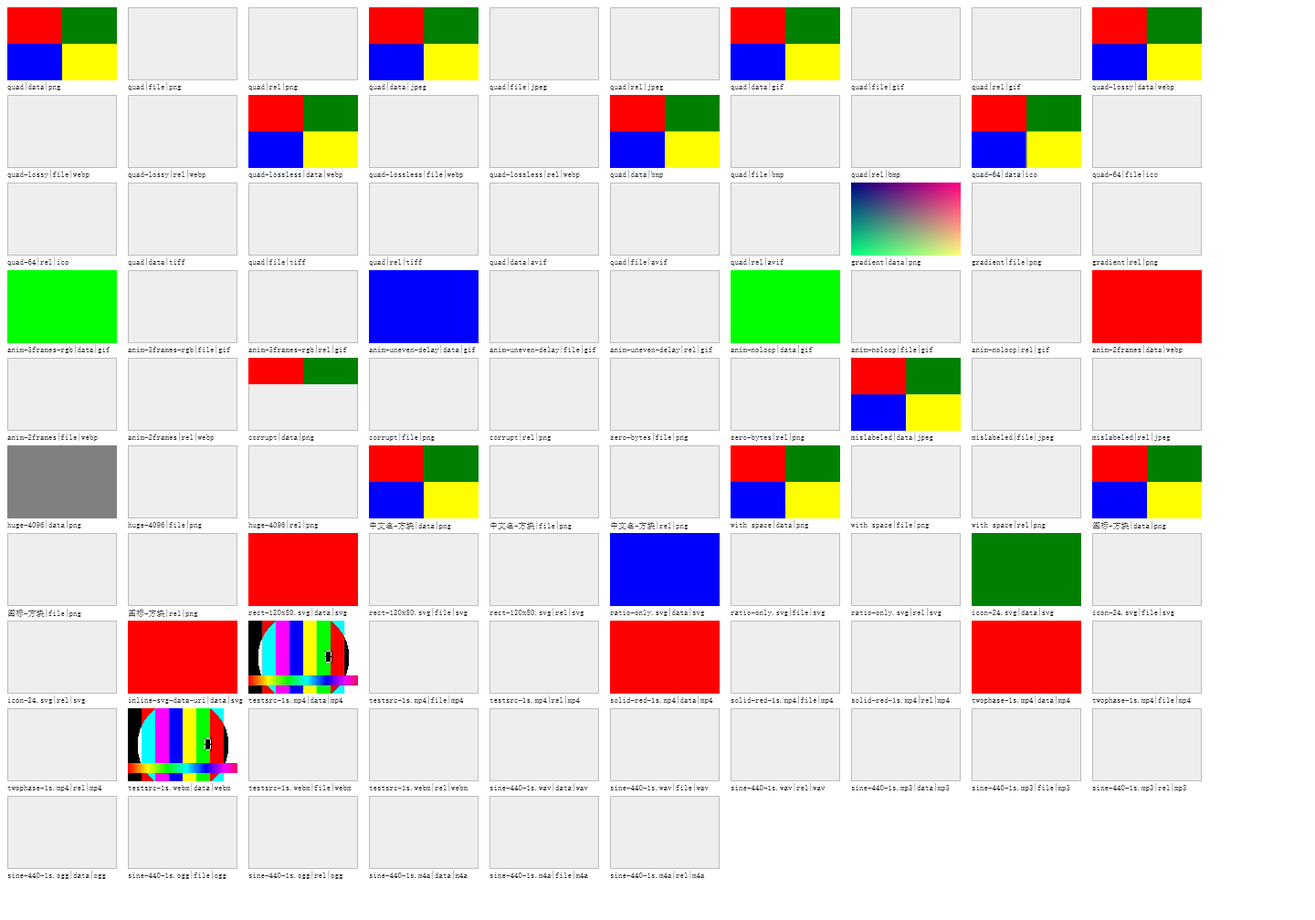
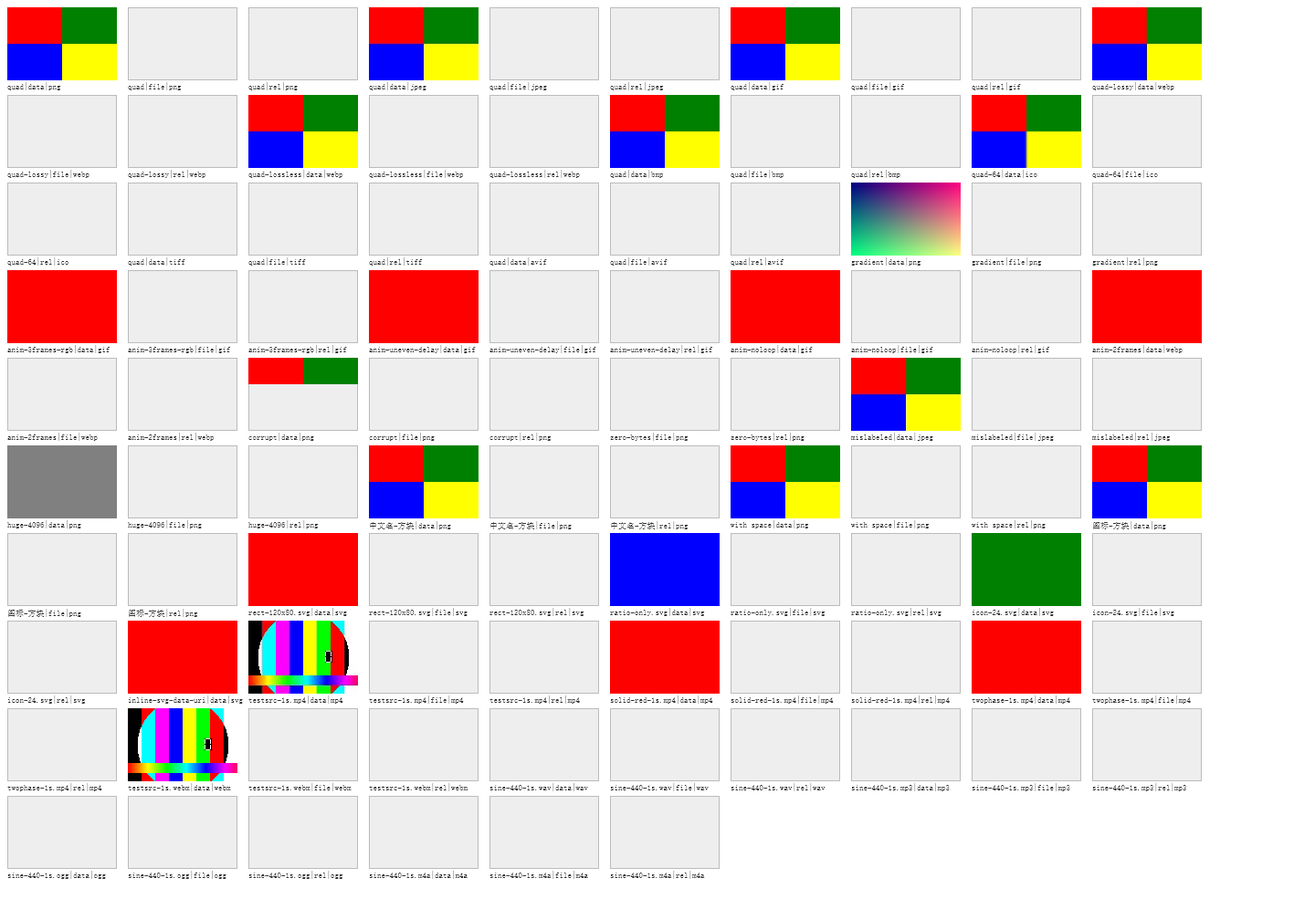
Q7-D：截图相位锁定 —— matrix-*.png 跨跑逐像素收敛（动画格遗留项的最后一环）
## 问题（第 9 处测量伪影，Q7-C 落地后暴露）
`matrix-*.png` 的动画样本格每次截到不同帧：实测 `matrix-Browser.png` 与
`matrix-Toolkit-DenyExternal.png` 各 1.98%、两张播放态各 5.95% 像素变化，最大通道差 255
（`cmp` 逐字节对比全部不 SAME）。差异格 100% 落在动画格，**非解码缺陷**。

根因与第 8 处**同源但不同环节**：动图显示哪一帧 = 「登记时刻 → 绘制时刻」的真实流逝
（`frameAt` 按 `now - started` 取模选帧），这段时长含加载、事件派发、主循环调度的全部抖动；
它**不经过**连拍采样环节，所以 Q7-C（连拍步长）改不动它——这正是此前判为遗留的依据。

## 修法
1. `engine/rendering/imageanimation.go`：新增**取证相位锁定** `SetAnimatedImagePhase(ms)` /
   `ClearAnimatedImagePhase()`——置位后 `frameAt` 忽略真实经过时间、改用固定相位。
   ★ 与既有 `SetAnimatedImageClock` 的区别（关键）：时钟替换会**清空帧缓存**，已登记的动图
   会被当成未登记、绘制回退到单帧快照；相位锁定**不动缓存、不动登记**，只把「该显示第几帧」
   的输入固定下来，解除后动画按原时钟继续。默认未置位 ⇒ 行为与改动前逐字节相同。
2. `app/imageanimation.go`：`PinAnimatedImagePhase` / `UnpinAnimatedImagePhase`（宿主层包装）。
3. `cmd/psai/mediaprobe.go`：**每一次截图绘制**期间把相位钉在 0（各动图首帧），截完立即解除
   （静止态与播放态两处）。

## ★ 不掩盖缺陷（口径说明）
「动图是否真在推进」由连拍判据（L4，`framesDiffer`）负责，它走**真实相位**，不受本锁定影响；
本锁定只决定「取证那一帧取哪一帧」。二者分工已在文档 §6.2 / §9.9 写明。

## 验收（连续 3 次全量跑）
- 8 张 `matrix-*.png` **逐字节相同**（`cmp` 全部 SAME；run1↔run2、run1↔run3 两两比对）；
- 3 次均「与基线一致（无等级下降）」，384 条等级零变化；
- 附带效果：TC-M-905 的 Browser ↔ Toolkit+AllowAll **全图差异同时归零**（此前那 3.9683%
  全部来自动画格相位差）——静止态三配置 md5 同为 `662955ee…`、播放态同为 `b709da84…`；
- 定向单测：`go test ./engine/rendering/ ./app/` 全 ok；`go build ./...`、`go vet` 通过。

## 文档
- §6.2 副作用②：由「未收敛、属遗留项」改写为「**已收敛（Q7-D）**」+ 根因与处置；
- §9.9 新增行「截图相位（第 9 处）——已根本处置」；
- §10 的 Q7 行补 ③；表头说明把 Q7-C 从「本轮未动」移出并指向 Q7-D。

## 产物
`dev/media/out/` 四配置静止/播放截图 + 逐格几何 + `report.md`（同源：第 3 次跑）。

Changed region(s): [[0.5312, 0.2768, 0.6562, 0.3998], [0.0, 0.2768, 0.0938, 0.3998], [0.2812, 0.2768, 0.375, 0.3998]]

diff --git a/engine/rendering/imageanimation.go b/engine/rendering/imageanimation.go
@@ -42,6 +42,10 @@ var animatedImages = struct {
 	src   AnimatedImageSource
 	clock func() time.Duration
 	cache map[string]*animatedEntry
+	// 取证相位锁定（见 SetAnimatedImagePhase）：置位后取帧不再看「经过时间」，
+	// 一律用固定相位，使截图可复现。默认未置位 ⇒ 行为与锁定前逐字节相同。
+	phaseSet bool
+	phaseMS  int
 }{
 	cache: map[string]*animatedEntry{},
 	// 时钟默认取进程单调时钟：动图推进不能受系统时间调整影响。
@@ -67,6 +71,31 @@ func SetAnimatedImageClock(fn func() time.Duration) {
 	animatedImages.cache = map[string]*animatedEntry{}
 	animatedImages.mu.Unlock()
 }
+
+// SetAnimatedImagePhase 把动图取帧的「经过时间」钉成 phaseMS 毫秒——与真实时刻、
+// 也与各动图自己的登记时刻无关。**取证用**（媒体验证计划 §6.3）：截图要能逐像素
+// 复核，而动画帧相位由「加载到截图之间真实流逝了多久」决定 ⇒ 同一 HEAD 重跑截到
+// 不同帧，截图无法比对。
+//
+// 与 SetAnimatedImageClock 的区别（重要）：时钟替换会**清空帧缓存**（见上），已登记
+// 的动图会被当成未登记，绘制回退到缓存的单帧快照；相位锁定**不动缓存、不动登记**，
+// 只把「该显示第几帧」的输入固定下来，解除后动画按原时钟继续（相位跳变一次，
+// 对「等间隔连拍」判据无影响——它只要求任意两帧不同）。
+//
+// phaseMS < 0 等价于 ClearAnimatedImagePhase。
+func SetAnimatedImagePhase(phaseMS int) {
+	animatedImages.mu.Lock()
+	if phaseMS < 0 {
+		animatedImages.phaseSet = false
+	} else {
+		animatedImages.phaseSet = true
+		animatedImages.phaseMS = phaseMS
+	}
+	animatedImages.mu.Unlock()
+}
+
+// ClearAnimatedImagePhase 解除相位锁定，恢复按真实经过时间选帧。
+func ClearAnimatedImagePhase() { SetAnimatedImagePhase(-1) }
 
 // HasAnimatedImages 报告当前是否有动图在播放（宿主据此决定「没有别的脏源也要重绘」）。
 func HasAnimatedImages() bool {
@@ -128,11 +157,16 @@ func animatedFrameForData(url string, data []byte) (*DecodedImage, bool) {
 }
 
 // frameAt 返回 now 时刻应显示的帧。loops == 0（只播一次）时停在末帧；否则按总时长取模。
+//
+// ★ 调用者必须持有 animatedImages.mu（本函数读相位锁定字段）。
 func (e *animatedEntry) frameAt(now time.Duration) *DecodedImage {
 	if e == nil || len(e.frames) == 0 {
 		return nil
 	}
 	elapsed := int((now - e.started).Milliseconds())
+	if animatedImages.phaseSet { // 取证相位锁定：忽略真实经过时间
+		elapsed = animatedImages.phaseMS
+	}
 	if elapsed < 0 {
 		elapsed = 0
 	}

diff --git a/cmd/psai/mediaprobe.go b/cmd/psai/mediaprobe.go
@@ -599,7 +599,17 @@ func runMediaConfig(cfg mediaConfig, man *manifestDoc, cells []cell, matrixPath,
 	if err != nil {
 		return res, err
 	}
+	// ★ Q7-D 截图相位锁定（2026-10-07）：动图显示哪一帧 = 「登记时刻到绘制时刻之间
+	//   真实流逝了多久」，那段时长包含加载、事件派发、主循环调度的全部抖动 ⇒ 同一
+	//   HEAD 重跑会截到**不同帧**（实测 matrix-*.png 差异 1.98%~5.95%，逐格定位后
+	//   差异像素 100% 落在动画样本格上）。截图要当验收证据（§6.3 供 read_image 复核、
+	//   供跨跑比对），就必须逐像素可复现。
+	//   处置：仅在**这一次截图绘制**期间把相位钉在 0（各动图首帧），截完立即解除。
+	//   ★ 这不会掩盖缺陷：「动图是否真的在推进」由连拍判据（L4，见 ③）负责，它用的
+	//     是**真实相位**，不受本锁定影响；本锁定只决定「取证那一帧取哪一帧」。
+	app.PinAnimatedImagePhase(0)
 	stillPixels, err := renderPixels(wv)
+	app.UnpinAnimatedImagePhase()
 	if err != nil {
 		return res, err
 	}
@@ -642,7 +652,10 @@ func runMediaConfig(cfg mediaConfig, man *manifestDoc, cells []cell, matrixPath,
 	if err != nil {
 		return res, err
 	}
+	// ★ 播放态截图同样钉相位（理由同 ①）：播放态与静止态各自的动画相位都不可复现。
+	app.PinAnimatedImagePhase(0)
 	playPixels, err := renderPixels(wv)
+	app.UnpinAnimatedImagePhase()
 	if err != nil {
 		return res, err
 	}

diff --git a/app/imageanimation.go b/app/imageanimation.go
@@ -47,3 +47,10 @@ func InstallAnimatedImageSource() func() {
 	})
 	return func() { rendering.SetAnimatedImageSource(nil) }
 }
+
+// PinAnimatedImagePhase 把动图取帧相位钉在 phaseMS 毫秒（取证用：让截图可复现），
+// 见 rendering.SetAnimatedImagePhase 的推导。默认不调用 = 动画按真实时间推进。
+func PinAnimatedImagePhase(phaseMS int) { rendering.SetAnimatedImagePhase(phaseMS) }
+
+// UnpinAnimatedImagePhase 解除动图取帧相位锁定，恢复按真实经过时间选帧。
+func UnpinAnimatedImagePhase() { rendering.ClearAnimatedImagePhase() }

diff --git a/dev/media/out/report.md b/dev/media/out/report.md
@@ -1,8 +1,8 @@
-# 媒体格式真实可用性报告（2026-10-07 22:10 9e1116d）
+# 媒体格式真实可用性报告（2026-10-08 01:20 bc9d8b9）
 
 ## 环境
 
-配置：Browser / Toolkit+DenyExternal / Toolkit+AllowHostResolved / Toolkit+AllowAll ｜ 引擎：9e1116d ｜ 样本：本地脚本生成、不入库（决策 5）｜ 模型：L0–L4（文档 §2）
+配置：Browser / Toolkit+DenyExternal / Toolkit+AllowHostResolved / Toolkit+AllowAll ｜ 引擎：bc9d8b9 ｜ 样本：本地脚本生成、不入库（决策 5）｜ 模型：L0–L4（文档 §2）
 
 复现：`python dev/media/gen_samples.py` → `cmd/psai -media`（本机按需，不入 CI 门禁——决策 6）
 
@@ -257,14 +257,14 @@
 | Toolkit+DenyExternal | svg | rect-120x80.svg | rel | ❌ | ❌ | ❌ | ❌ | — | **L0** | 资源策略 deny-external 拒绝该引用（预期，非缺陷） |
 | Toolkit+AllowHostResolved | svg | rect-120x80.svg | rel | ✅ | ✅ | ✅ | ✅ | — | **L3** |  |
 | Toolkit+AllowAll | svg | rect-120x80.svg | rel | ✅ | ✅ | ✅ | ✅ | — | **L3** |  |
-| Browser | m4a | sine-440-1s.m4a | data | ✅ | ✅ | — | ✅ | — | **L4** | 音频输出：交付 49041 帧、PCM 主峰 439.88Hz（期望 440Hz，判据 A）；play() 后 500ms currentTime=0.42s、结束时 1.00s（TC-M-602） |
+| Browser | m4a | sine-440-1s.m4a | data | ✅ | ✅ | — | ✅ | — | **L4** | 音频输出：交付 49041 帧、PCM 主峰 439.88Hz（期望 440Hz，判据 A）；play() 后 500ms currentTime=0.47s、结束时 1.00s（TC-M-602） |
 | Toolkit+DenyExternal | m4a | sine-440-1s.m4a | data | ✅ | ✅ | — | ✅ | — | **L4** | 音频输出：交付 49041 帧、PCM 主峰 439.88Hz（期望 440Hz，判据 A）；play() 后 500ms currentTime=1.00s、结束时 1.00s（TC-M-602） |
-| Toolkit+AllowHostResolved | m4a | sine-440-1s.m4a | data | ✅ | ✅ | — | ✅ | — | **L4** | 音频输出：交付 49041 帧、PCM 主峰 439.88Hz（期望 440Hz，判据 A）；play() 后 500ms currentTime=0.42s、结束时 1.00s（TC-M-602） |
-| Toolkit+AllowAll | m4a | sine-440-1s.m4a | data | ✅ | ✅ | — | ✅ | — | **L4** | 音频输出：交付 49041 帧、PCM 主峰 439.88Hz（期望 440Hz，判据 A）；play() 后 500ms currentTime=0.41s、结束时 1.00s（TC-M-602） |
-| Browser | m4a | sine-440-1s.m4a | file | ✅ | ✅ | — | ✅ | — | **L4** | 音频输出：交付 49041 帧、PCM 主峰 439.88Hz（期望 440Hz，判据 A）；play() 后 500ms currentTime=0.23s、结束时 1.00s（TC-M-602） |
+| Toolkit+AllowHostResolved | m4a | sine-440-1s.m4a | data | ✅ | ✅ | — | ✅ | — | **L4** | 音频输出：交付 49041 帧、PCM 主峰 439.88Hz（期望 440Hz，判据 A）；play() 后 500ms currentTime=0.65s、结束时 1.00s（TC-M-602） |
+| Toolkit+AllowAll | m4a | sine-440-1s.m4a | data | ✅ | ✅ | — | ✅ | — | **L4** | 音频输出：交付 49041 帧、PCM 主峰 439.88Hz（期望 440Hz，判据 A）；play() 后 500ms currentTime=0.53s、结束时 1.00s（TC-M-602） |
+| Browser | m4a | sine-440-1s.m4a | file | ✅ | ✅ | — | ✅ | — | **L4** | 音频输出：交付 49041 帧、PCM 主峰 439.88Hz（期望 440Hz，判据 A）；play() 后 500ms currentTime=0.29s、结束时 1.00s（TC-M-602） |
 | Toolkit+DenyExternal | m4a | sine-440-1s.m4a | file | ❌ | ❌ | — | ❌ | — | **L0** | 资源策略 deny-external 拒绝该引用（预期，非缺陷）；实测元素 error.code=4（MEDIA_ERR_SRC_NOT_SUPPORTED） |
-| Toolkit+AllowHostResolved | m4a | sine-440-1s.m4a | file | ✅ | ✅ | — | ✅ | — | **L4** | 音频输出：交付 49041 帧、PCM 主峰 439.88Hz（期望 440Hz，判据 A）；play() 后 500ms currentTime=0.29s、结束时 1.00s（TC-M-602） |
-| Toolkit+AllowAll | m4a | sine-440-1s.m4a | file | ✅ | ✅ | — | ✅ | — | **L4** | 音频输出：交付 49041 帧、PCM 主峰 439.88Hz（期望 440Hz，判据 A）；play() 后 500ms currentTime=0.28s、结束时 1.00s（TC-M-602） |
+| Toolkit+AllowHostResolved | m4a | sine-440-1s.m4a | file | ✅ | ✅ | — | ✅ | — | **L4** | 音频输出：交付 49041 帧、PCM 主峰 439.88Hz（期望 440Hz，判据 A）；play() 后 500ms currentTime=0.32s、结束时 1.00s（TC-M-602） |
+| Toolkit+AllowAll | m4a | sine-440-1s.m4a | file | ✅ | ✅ | — | ✅ | — | **L4** | 音频输出：交付 49041 帧、PCM 主峰 439.88Hz（期望 440Hz，判据 A）；play() 后 500ms currentTime=0.33s、结束时 1.00s（TC-M-602） |
 | Browser | m4a | sine-440-1s.m4a | rel | ✅ | ✅ | — | ✅ | — | **L4** | 音频输出：交付 49041 帧、PCM 主峰 439.88Hz（期望 440Hz，判据 A）；play() 后 500ms currentTime=0.00s、结束时 1.00s（TC-M-602） |
 | Toolkit+DenyExternal | m4a | sine-440-1s.m4a | rel | ❌ | ❌ | — | ❌ | — | **L0** | 资源策略 deny-external 拒绝该引用（预期，非缺陷）；实测元素 error.code=4（MEDIA_ERR_SRC_NOT_SUPPORTED） |
 | Toolkit+AllowHostResolved | m4a | sine-440-1s.m4a | rel | ✅ | ✅ | — | ✅ | — | **L4** | 音频输出：交付 49041 帧、PCM 主峰 439.88Hz（期望 440Hz，判据 A）；play() 后 500ms currentTime=0.00s、结束时 1.00s（TC-M-602） |
@@ -281,18 +281,18 @@
 | Toolkit+DenyExternal | mp3 | sine-440-1s.mp3 | rel | ❌ | ❌ | — | ❌ | — | **L0** | 资源策略 deny-external 拒绝该引用（预期，非缺陷）；实测元素 error.code=4（MEDIA_ERR_SRC_NOT_SUPPORTED） |
 | Toolkit+AllowHostResolved | mp3 | sine-440-1s.mp3 | rel | ✅ | ✅ | — | ✅ | — | **L4** | 音频输出：交付 48000 帧、PCM 主峰 439.88Hz（期望 440Hz，判据 A）；play() 后 500ms currentTime=1.00s、结束时 1.00s（TC-M-602） |
 | Toolkit+AllowAll | mp3 | sine-440-1s.mp3 | rel | ✅ | ✅ | — | ✅ | — | **L4** | 音频输出：交付 48000 帧、PCM 主峰 439.88Hz（期望 440Hz，判据 A）；play() 后 500ms currentTime=1.00s、结束时 1.00s（TC-M-602） |
-| Browser | ogg | sine-440-1s.ogg | data | ✅ | ✅ | — | ✅ | — | **L4** | 音频输出：交付 47861 帧、PCM 主峰 439.87Hz（期望 440Hz，判据 A）；play() 后 500ms currentTime=0.86s、结束时 1.00s（TC-M-602） |
+| Browser | ogg | sine-440-1s.ogg | data | ✅ | ✅ | — | ✅ | — | **L4** | 音频输出：交付 47861 帧、PCM 主峰 439.87Hz（期望 440Hz，判据 A）；play() 后 500ms currentTime=1.00s、结束时 1.00s（TC-M-602） |
 | Toolkit+DenyExternal | ogg | sine-440-1s.ogg | data | ✅ | ✅ | — | ✅ | — | **L4** | 音频输出：交付 47861 帧、PCM 主峰 439.87Hz（期望 440Hz，判据 A）；play() 后 500ms currentTime=1.00s、结束时 1.00s（TC-M-602） |
-| Toolkit+AllowHostResolved | ogg | sine-440-1s.ogg | data | ✅ | ✅ | — | ✅ | — | **L4** | 音频输出：交付 47861 帧、PCM 主峰 439.87Hz（期望 440Hz，判据 A）；play() 后 500ms currentTime=0.88s、结束时 1.00s（TC-M-602） |
-| Toolkit+AllowAll | ogg | sine-440-1s.ogg | data | ✅ | ✅ | — | ✅ | — | **L4** | 音频输出：交付 47861 帧、PCM 主峰 439.87Hz（期望 440Hz，判据 A）；play() 后 500ms currentTime=0.97s、结束时 1.00s（TC-M-602） |
-| Browser | ogg | sine-440-1s.ogg | file | ✅ | ✅ | — | ✅ | — | **L4** | 音频输出：交付 47861 帧、PCM 主峰 439.87Hz（期望 440Hz，判据 A）；play() 后 500ms currentTime=0.73s、结束时 1.00s（TC-M-602） |
+| Toolkit+AllowHostResolved | ogg | sine-440-1s.ogg | data | ✅ | ✅ | — | ✅ | — | **L4** | 音频输出：交付 47861 帧、PCM 主峰 439.87Hz（期望 440Hz，判据 A）；play() 后 500ms currentTime=1.00s、结束时 1.00s（TC-M-602） |
+| Toolkit+AllowAll | ogg | sine-440-1s.ogg | data | ✅ | ✅ | — | ✅ | — | **L4** | 音频输出：交付 47861 帧、PCM 主峰 439.87Hz（期望 440Hz，判据 A）；play() 后 500ms currentTime=1.00s、结束时 1.00s（TC-M-602） |
+| Browser | ogg | sine-440-1s.ogg | file | ✅ | ✅ | — | ✅ | — | **L4** | 音频输出：交付 47861 帧、PCM 主峰 439.87Hz（期望 440Hz，判据 A）；play() 后 500ms currentTime=0.84s、结束时 1.00s（TC-M-602） |
 | Toolkit+DenyExternal | ogg | sine-440-1s.ogg | file | ❌ | ❌ | — | ❌ | — | **L0** | 资源策略 deny-external 拒绝该引用（预期，非缺陷）；实测元素 error.code=4（MEDIA_ERR_SRC_NOT_SUPPORTED） |
-| Toolkit+AllowHostResolved | ogg | sine-440-1s.ogg | file | ✅ | ✅ | — | ✅ | — | **L4** | 音频输出：交付 47861 帧、PCM 主峰 439.87Hz（期望 440Hz，判据 A）；play() 后 500ms currentTime=0.72s、结束时 1.00s（TC-M-602） |
-| Toolkit+AllowAll | ogg | sine-440-1s.ogg | file | ✅ | ✅ | — | ✅ | — | **L4** | 音频输出：交付 47861 帧、PCM 主峰 439.87Hz（期望 440Hz，判据 A）；play() 后 500ms currentTime=0.79s、结束时 1.00s（TC-M-602） |
-| Browser | ogg | sine-440-1s.ogg | rel | ✅ | ✅ | — | ✅ | — | **L4** | 音频输出：交付 47861 帧、PCM 主峰 439.87Hz（期望 440Hz，判据 A）；play() 后 500ms currentTime=0.59s、结束时 1.00s（TC-M-602） |
+| Toolkit+AllowHostResolved | ogg | sine-440-1s.ogg | file | ✅ | ✅ | — | ✅ | — | **L4** | 音频输出：交付 47861 帧、PCM 主峰 439.87Hz（期望 440Hz，判据 A）；play() 后 500ms currentTime=1.00s、结束时 1.00s（TC-M-602） |
+| Toolkit+AllowAll | ogg | sine-440-1s.ogg | file | ✅ | ✅ | — | ✅ | — | **L4** | 音频输出：交付 47861 帧、PCM 主峰 439.87Hz（期望 440Hz，判据 A）；play() 后 500ms currentTime=1.00s、结束时 1.00s（TC-M-602） |
+| Browser | ogg | sine-440-1s.ogg | rel | ✅ | ✅ | — | ✅ | — | **L4** | 音频输出：交付 47861 帧、PCM 主峰 439.87Hz（期望 440Hz，判据 A）；play() 后 500ms currentTime=0.65s、结束时 1.00s（TC-M-602） |
 | Toolkit+DenyExternal | ogg | sine-440-1s.ogg | rel | ❌ | ❌ | — | ❌ | — | **L0** | 资源策略 deny-external 拒绝该引用（预期，非缺陷）；实测元素 error.code=4（MEDIA_ERR_SRC_NOT_SUPPORTED） |
-| Toolkit+AllowHostResolved | ogg | sine-440-1s.ogg | rel | ✅ | ✅ | — | ✅ | — | **L4** | 音频输出：交付 47861 帧、PCM 主峰 439.87Hz（期望 440Hz，判据 A）；play() 后 500ms currentTime=0.57s、结束时 1.00s（TC-M-602） |
-| Toolkit+AllowAll | ogg | sine-440-1s.ogg | rel | ✅ | ✅ | — | ✅ | — | **L4** | 音频输出：交付 47861 帧、PCM 主峰 439.87Hz（期望 440Hz，判据 A）；play() 后 500ms currentTime=0.59s、结束时 1.00s（TC-M-602） |
+| Toolkit+AllowHostResolved | ogg | sine-440-1s.ogg | rel | ✅ | ✅ | — | ✅ | — | **L4** | 音频输出：交付 47861 帧、PCM 主峰 439.87Hz（期望 440Hz，判据 A）；play() 后 500ms currentTime=0.86s、结束时 1.00s（TC-M-602） |
+| Toolkit+AllowAll | ogg | sine-440-1s.ogg | rel | ✅ | ✅ | — | ✅ | — | **L4** | 音频输出：交付 47861 帧、PCM 主峰 439.87Hz（期望 440Hz，判据 A）；play() 后 500ms currentTime=0.79s、结束时 1.00s（TC-M-602） |
 | Browser | wav | sine-440-1s.wav | data | ✅ | ✅ | — | ✅ | — | **L4** | 音频输出：交付 48000 帧、PCM 主峰 439.88Hz（期望 440Hz，判据 A）；play() 后 500ms currentTime=1.00s、结束时 1.00s（TC-M-602） |
 | Toolkit+DenyExternal | wav | sine-440-1s.wav | data | ✅ | ✅ | — | ✅ | — | **L4** | 音频输出：交付 48000 帧、PCM 主峰 439.88Hz（期望 440Hz，判据 A）；play() 后 500ms currentTime=1.00s、结束时 1.00s（TC-M-602） |
 | Toolkit+AllowHostResolved | wav | sine-440-1s.wav | data | ✅ | ✅ | — | ✅ | — | **L4** | 音频输出：交付 48000 帧、PCM 主峰 439.88Hz（期望 440Hz，判据 A）；play() 后 500ms currentTime=1.00s、结束时 1.00s（TC-M-602） |
@@ -479,12 +479,8 @@
 
 ## 策略一致性（决策 1 · TC-M-905）
 
-- 全图差异像素比例：**3.9683%**（其中 12 个动画样本格未计入下方判定）
+- 全图差异像素比例：**0.0000%**（其中 12 个动画样本格未计入下方判定）
 - 排除动画样本格后：**0.0000%** —— ✅ 非动画区域逐像素一致
-
-> **归因**：全图差异 **100% 落在动画样本格内**（`anim-noloop.gif`、`anim-2frames.webp` 等）——
-> 两个配置各是一次独立加载与截图，动画停在不同帧（**帧相位差**，与策略开关无关）；
-> 非动画区域（静态图 / SVG / 视频 / 音频格）**零差异**。详见 `media-format-verification-plan.md` §9.7。
 
 ## 音频（A3-1：宿主 ffmpeg 解码 → 引擎 PCM 通道 → 输出后端）
 
@@ -567,11 +563,11 @@
 | Browser | sine-440-1s.mp3 | data | 1.00 | 1.00 | 1.00 | 1.00 | ✅ |
 | Browser | sine-440-1s.mp3 | file | 1.00 | 1.00 | 1.00 | 1.00 | ✅ |
 | Browser | sine-440-1s.mp3 | rel | 1.00 | 1.00 | 1.00 | 1.00 | ✅ |
-| Browser | sine-440-1s.ogg | data | 0.91 | 0.86 | 0.91 | 1.00 | ✅ |
-| Browser | sine-440-1s.ogg | file | 0.78 | 0.73 | 0.78 | 1.00 | ✅ |
-| Browser | sine-440-1s.ogg | rel | 0.63 | 0.59 | 0.63 | 1.00 | ✅ |
-| Browser | sine-440-1s.m4a | data | 0.45 | 0.42 | 0.45 | 1.00 | ✅ |
-| Browser | sine-440-1s.m4a | file | 0.29 | 0.23 | 0.29 | 1.00 | ✅ |
+| Browser | sine-440-1s.ogg | data | 1.00 | 1.00 | 1.00 | 1.00 | ✅ |
+| Browser | sine-440-1s.ogg | file | 0.90 | 0.84 | 0.90 | 1.00 | ✅ |
+| Browser | sine-440-1s.ogg | rel | 0.71 | 0.65 | 0.71 | 1.00 | ✅ |
+| Browser | sine-440-1s.m4a | data | 0.52 | 0.47 | 0.52 | 1.00 | ✅ |
+| Browser | sine-440-1s.m4a | file | 0.35 | 0.29 | 0.35 | 1.00 | ✅ |
 | Browser | sine-440-1s.m4a | rel | 0.15 | 0.00 | 0.15 | 1.00 | ✅ |
 | Toolkit+DenyExternal | sine-440-1s.wav | data | 1.00 | 1.00 | 1.00 | 1.00 | ✅ |
 | Toolkit+DenyExternal | sine-440-1s.wav | file | 0.00 | 0.00 | 0.00 | 0.00 | — |
@@ -591,24 +587,24 @@
 | Toolkit+AllowHostResolved | sine-440-1s.mp3 | data | 1.00 | 1.00 | 1.00 | 1.00 | ✅ |
 | Toolkit+AllowHostResolved | sine-440-1s.mp3 | file | 1.00 | 1.00 | 1.00 | 1.00 | ✅ |
 | Toolkit+AllowHostResolved | sine-440-1s.mp3 | rel | 1.00 | 1.00 | 1.00 | 1.00 | ✅ |
-| Toolkit+AllowHostResolved | sine-440-1s.ogg | data | 0.94 | 0.88 | 0.94 | 1.00 | ✅ |
-| Toolkit+AllowHostResolved | sine-440-1s.ogg | file | 0.79 | 0.72 | 0.79 | 1.00 | ✅ |
-| Toolkit+AllowHostResolved | sine-440-1s.ogg | rel | 0.65 | 0.57 | 0.65 | 1.00 | ✅ |
-| Toolkit+AllowHostResolved | sine-440-1s.m4a | data | 0.49 | 0.42 | 0.49 | 1.00 | ✅ |
-| Toolkit+AllowHostResolved | sine-440-1s.m4a | file | 0.34 | 0.29 | 0.34 | 1.00 | ✅ |
-| Toolkit+AllowHostResolved | sine-440-1s.m4a | rel | 0.17 | 0.00 | 0.17 | 1.00 | ✅ |
+| Toolkit+AllowHostResolved | sine-440-1s.ogg | data | 1.00 | 1.00 | 1.00 | 1.00 | ✅ |
+| Toolkit+AllowHostResolved | sine-440-1s.ogg | file | 1.00 | 1.00 | 1.00 | 1.00 | ✅ |
+| Toolkit+AllowHostResolved | sine-440-1s.ogg | rel | 0.93 | 0.86 | 0.93 | 1.00 | ✅ |
+| Toolkit+AllowHostResolved | sine-440-1s.m4a | data | 0.71 | 0.65 | 0.71 | 1.00 | ✅ |
+| Toolkit+AllowHostResolved | sine-440-1s.m4a | file | 0.39 | 0.32 | 0.39 | 1.00 | ✅ |
+| Toolkit+AllowHostResolved | sine-440-1s.m4a | rel | 0.16 | 0.00 | 0.16 | 1.00 | ✅ |
 | Toolkit+AllowAll | sine-440-1s.wav | data | 1.00 | 1.00 | 1.00 | 1.00 | ✅ |
 | Toolkit+AllowAll | sine-440-1s.wav | file | 1.00 | 1.00 | 1.00 | 1.00 | ✅ |
 | Toolkit+AllowAll | sine-440-1s.wav | rel | 1.00 | 1.00 | 1.00 | 1.00 | ✅ |
 | Toolkit+AllowAll | sine-440-1s.mp3 | data | 1.00 | 1.00 | 1.00 | 1.00 | ✅ |
 | Toolkit+AllowAll | sine-440-1s.mp3 | file | 1.00 | 1.00 | 1.00 | 1.00 | ✅ |
 | Toolkit+AllowAll | sine-440-1s.mp3 | rel | 1.00 | 1.00 | 1.00 | 1.00 | ✅ |
-| Toolkit+AllowAll | sine-440-1s.ogg | data | 1.00 | 0.97 | 1.00 | 1.00 | ✅ |
-| Toolkit+AllowAll | sine-440-1s.ogg | file | 0.84 | 0.79 | 0.84 | 1.00 | ✅ |
-| Toolkit+AllowAll | sine-440-1s.ogg | rel | 0.63 | 0.59 | 0.63 | 1.00 | ✅ |
-| Toolkit+AllowAll | sine-440-1s.m4a | data | 0.46 | 0.41 | 0.46 | 1.00 | ✅ |
-| Toolkit+AllowAll | sine-440-1s.m4a | file | 0.31 | 0.28 | 0.31 | 1.00 | ✅ |
-| Toolkit+AllowAll | sine-440-1s.m4a | rel | 0.15 | 0.00 | 0.15 | 1.00 | ✅ |
+| Toolkit+AllowAll | sine-440-1s.ogg | data | 1.00 | 1.00 | 1.00 | 1.00 | ✅ |
+| Toolkit+AllowAll | sine-440-1s.ogg | file | 1.00 | 1.00 | 1.00 | 1.00 | ✅ |
+| Toolkit+AllowAll | sine-440-1s.ogg | rel | 0.85 | 0.79 | 0.85 | 1.00 | ✅ |
+| Toolkit+AllowAll | sine-440-1s.m4a | data | 0.59 | 0.53 | 0.59 | 1.00 | ✅ |
+| Toolkit+AllowAll | sine-440-1s.m4a | file | 0.39 | 0.33 | 0.39 | 1.00 | ✅ |
+| Toolkit+AllowAll | sine-440-1s.m4a | rel | 0.16 | 0.00 | 0.16 | 1.00 | ✅ |
 
 > 容差 **±0.2s**（采样开销 + 设备启动延迟）。`data:` 来源没有本地路径（宿主解不了码），采样时无 PCM、时钟未起步——不在判据 A 的覆盖范围，保持 L1。
 

diff --git a/docs/media-format-verification-plan.md b/docs/media-format-verification-plan.md
@@ -453,15 +453,23 @@ webkit/mode.go:66                             allowsExternalURLs()
    ① **报告数值**：`report.md` 含 TC-M-602 的 `currentTime` 等采样数值。实测重跑 628 行中 **140 行变化**：
    报告头 4 行（日期/commit）+ 播放时钟 122 行（描述行 60 + 判据表 62）+ 像素比对比例 2 行 + 环回录音 4 行
    = 抖动 132 行，另 8 行是 Q7-B 备注修正的**真实内容变化**（`corrupt.png`/`zero-bytes.png` 归因）。
-   ② **截图像素**：`matrix-*.png` 中的**动画样本格**每次会截到不同帧。实测 `matrix-Browser.png` 与
+   ② **截图像素** —— ⚠ **2026-10-07 已收敛（Q7-D）**，此前每次截到不同帧。收敛前实测：`matrix-Browser.png` 与
    `matrix-Toolkit-DenyExternal.png` 各 **1.98%** 像素变化，两张播放态各 **5.95%**，最大通道差 **255**
    （整格换色）；经逐格定位，差异格正是 `anim-uneven-delay|data|file|rel|gif` 等**动画格**——即 §9.9 的
    **动图采样伪影**，非解码缺陷（同页 `quad.*` 等静止样本逐像素不变）。
-   等级判定与基线比对（§6.4）不经这些数值/像素，**不受影响**。⚠ **订正（2026-10-07 实测）**：Q7-C
-   落地后**等级判定确已零变化**（连续 3 次全量跑、384 条等级零漂移），但②**并未收敛**——动画格像素
-   仍在蓝/绿/红之间摇摆。根因：截图是在**固定的 `settleReal` 时刻**拍的（静止态 1.5s、播放态 1.0s 后），
-   该时刻与该动图的帧相位**解耦**，**不经过**连拍采样环节，故 Q7-C 改不动它。要稳定截图需让截图时刻
-   **对齐帧边界**（引擎未暴露「当前帧号」，无法做到），属**遗留项**。
+   **根因**：动图显示哪一帧 = 「登记时刻 → 绘制时刻」的真实流逝时长（`imageanimation.frameAt` 按
+   `now - started` 取模选帧），这段时长包含加载、事件派发、主循环调度的全部抖动，故同一 HEAD 重跑必落在
+   不同帧；它**不经过**连拍采样环节，因此 Q7-C（连拍步长）**改不动它**——这也是此前把它列为遗留项的依据。
+   **处置（Q7-D）**：渲染层新增**取证相位锁定** `rendering.SetAnimatedImagePhase(ms)`——**不动**帧缓存与
+   登记，只把「该显示第几帧」的输入钉住（与 `SetAnimatedImageClock` 不同：后者会清空帧缓存，使绘制回退到
+   单帧快照）；探针在**每一次截图绘制**期间把相位钉在 0（各动图首帧），截完立即解除
+   （`app.PinAnimatedImagePhase` / `UnpinAnimatedImagePhase`）。
+   ★ **不掩盖缺陷**：「动图是否真在推进」由连拍判据（L4，`framesDiffer`）负责，它走**真实相位**，
+   不受本锁定影响；本锁定只决定「取证那一帧取哪一帧」。
+   **验收**：连续 **3 次**全量跑，**8 张 `matrix-*.png` 逐字节相同**（`cmp` 全部 SAME），3 次均
+   「与基线一致（无等级下降）」；附带效果是 TC-M-905 的 Browser ↔ Toolkit+AllowAll **全图差异同时归零**
+   （此前那 3.9683% 全部来自动画格相位差）。
+   等级判定与基线比对（§6.4）不经这两类数值/像素，**不受影响**。
 2. **媒体验证子命令** `cmd/psai -media`（或新 `cmd/mediaprobe`）：
    - **四配置**（Browser / Toolkit+DenyExternal / Toolkit+AllowHostResolved / Toolkit+AllowAll）各跑一遍矩阵页，并与 **Edge 对照**（决策 2），产出「引擎 / Edge」双列等级；
    - 每格式产出：几何 JSON、`complete/naturalWidth`、事件日志、截图 PNG；
@@ -998,6 +1006,7 @@ func (wv *WebView) SetResourcePolicy(p ResourcePolicy)
 | 兼容性（先查后改） | 全仓排查实际宿主：`cmd/browser`、`cmd/gouide`、`dev/probes/window_test` 用 `NewWebView()`（ModeBrowser → 默认 `AllowAll`）**不受影响**；`examples/`、`ui/` 无媒体装配；`dev/probes/idepage*` 是压测页、无媒体；**`cmd/psai` 主宿主**（ModeToolkit → 默认 `DenyExternal`）的 A0/A1/A2 自检要读 `_temp/mediaverify` 的 `file://` 样本 ⇒ **显式声明** `SetResourcePolicy(AllowAll)`（自检段内切档、结束**立即恢复**，其余判据仍在原档位下跑）。**契约（新增）**：需要本地媒体的宿主**必须显式声明**策略（`AllowHostResolved` 或 `AllowAll`）——`data:` 与 resolver 命中的引用不需要 |
 | 取舍依据（选项 1 / 2 / 3，含反方观点） | **选项 1（本轮采纳）**：媒体并入同一门禁——「收紧而非放松」，与既有纪律一致（§9.4 的 SVG 缓存绕过是先例：那次也是**改实现**而不是改文档），且不动任何既有判据口径。**选项 2**：把「宿主注入 = 宿主授权」写成显式决策（宿主既然自己解码，就不该再受资源策略约束）——**反方观点确有道理**：媒体字节从不进引擎，读盘的是宿主自己的进程，「引擎的门禁」对宿主自己的 IO 本无强制力；但该观点解释不了**同一个宿主**（`cmd/psai`/`app`）在 `DenyExternal` 下对 `<img>` 严格拒绝、对媒体却放行的**自相矛盾**，也无法让「安全默认」覆盖新的资源类型（策略的意义正是「宿主没表态时不读盘」）。**选项 3**：折中（只拦元数据、授权后放行帧/PCM）——语义更细，但需新造「媒体授权」概念，且 `<video>` 的元数据与首帧几乎同时发生，拆分不带来实际保护、只多一层状态。反方观点保留于此，供日后回溯 |
 | 探测伪影（第 8 处）——**根本解法已落地**（2026-10-07，Q7-C） | 抖动修法虽连续多次一致（判据未放宽），但「一遇抖动就调采样参数」已累积到第 8 处，**补丁式累积值得警惕**：根本解法是**按样本自己声明的帧时长驱动采样**。**本轮已落地**：新增 `mediaAnimSteps(man)`——对每个**不同周期** P = Σ `Delays`（manifest 里早有此字段，探针此前完全没用它）生成 3 个步长 P×r（r ∈ {0.37, 0.61, 0.83}，互不相同且刻意避开 1/2、1/3、2/3 这类对称点——否则两帧样本互换相位后又落回同帧），各叠加互不相同的抖动，再按周期**轮转排列**；窗口总长 ≈2.1s，远大于最长周期（`anim-2frames.webp` 的 400ms）⇒ 覆盖完整循环周期。旧的「固定基步长 130/190ms」退为**无动画样本时的回退分支**。判据不变（`framesDiffer` 仍是「任意两帧不同」），真静止样本不受影响。**实测的四种周期**：`anim-3frames-rgb`/`anim-noloop` 300ms、`anim-uneven-delay` **350ms**（旧口径锁相的那个）、`anim-2frames.webp` 400ms。**验收**：`cmd/psai -media` 连续 **3 次**全量跑均「与基线一致（无等级下降）」，**384 条等级零变化**（三次报告逐格比对）。⚠ **不含**截图 `matrix-*.png` 的帧相位抖动（另一来源，见 §6.2 副作用②） |
+| 截图相位（第 9 处）——**已根本处置**（2026-10-07，Q7-D） | 与第 8 处**同源但不同环节**：连拍判据看的是「采样间隔 vs 帧时长」，而**截图**看的是「登记时刻 → 绘制时刻的真实流逝」（`frameAt` 按 `now - started` 取模）——后者含加载、事件派发、主循环调度的全部抖动 ⇒ 同一 HEAD 重跑必截到不同帧（实测 1.98% / 5.95%，差异格 100% 落在动画样本格；`cmp` 逐字节对比全部不 SAME），且它**不经过**连拍采样环节，故 Q7-C 改不动它。**处置**：渲染层新增**取证相位锁定** `rendering.SetAnimatedImagePhase(ms)`——**不动**帧缓存与登记，只钉「该显示第几帧」的输入（`SetAnimatedImageClock` 会清空帧缓存、使绘制回退到单帧快照，故不可用）；探针在**每一次截图绘制**期间钉在相位 0（各动图首帧）并立即解除（`app.PinAnimatedImagePhase` / `UnpinAnimatedImagePhase`）。★ **不掩盖缺陷**：「动图是否真在推进」仍由连拍判据（L4，走**真实相位**）负责。**验收**：连续 **3 次**全量跑，8 张 `matrix-*.png` **逐字节相同**（`cmp` 全 SAME）、3 次均「与基线一致（无等级下降）」；附带 TC-M-905 的 Browser ↔ Toolkit+AllowAll**全图差异同时归零**（此前那 3.9683% 全部来自动画格相位差）。 |
 
 > **挂账登记（2026-10-07，已拍板：方案 Q5-A「挂账」）**：本表说的「一份判定、两处执行」是
 > `loadExternalResource`（`webkit/`，图片/样式/脚本的字节路径）与 `MediaResourceAllowed`
@@ -1012,7 +1021,7 @@ func (wv *WebView) SetResourcePolicy(p ResourcePolicy)
 > **拍板（2026-10-07）**：用户选择「按本表『建议』列执行」——即 **Q1-B / Q2-D / Q3-A+C / Q4-B /
 > Q5-A / Q6-B(+D) / Q7-B**（Q8 已就地处置）。下表「状态」列记录**本轮实际执行结果**；
 > 详细证据见对应章节（§8.3 / §9.6 / §9.9 / `docs/TECH_DEBT.md`）。
-> 建议列之外的其它选项（Q2-C 完整音频图、Q4-C/D 直接修、Q5-B 重构、Q7-C 采样根因）**本轮一律未动**。
+> 建议列之外的其它选项（Q2-C 完整音频图、Q4-C/D 直接修、Q5-B 重构）**本轮一律未动**；Q7-C（采样根因）已落地（`bc9d8b9`），其**遗留的截图相位抖动由 Q7-D 同轮处置**（见 §9.9）。
 
 | 编号 | 是什么 | 影响 | 拍板 | 状态（2026-10-07 实测） | 证据去向 |
 |---|---|---|---|---|---|
@@ -1022,7 +1031,7 @@ func (wv *WebView) SetResourcePolicy(p ResourcePolicy)
 | **Q4** | `wb-ui/webkit` 3 个 pre-existing 失败 | 单测基线**非全绿**，影响「验收不新增失败」的解读 | **B（只读侦查）** | ✅ **侦查完成、未修**。三条各给出测试名/断言原文/根因假设/风险/建议：①按钮字形只命中一行像素 ⇒ 测量脆性；②`14.8281/13.0 = 1.1406` = Segoe UI 的 normal 行距 ⇒ 断言口径过窄；③`:checked` 读 attribute 而非 IDL 状态（②③ 均指向「测试期望/口径」而非引擎缺陷） | `docs/TECH_DEBT.md`「三条失败的逐条侦查」 |
 | **Q5** | 门禁是否重构 | `loadExternalResource` 与 `MediaResourceAllowed` 是**两份平行判定**，有漂移风险 | **A（挂账）** | ✅ **已登记挂账、未重构** | §9.9「挂账登记」 |
 | **Q6** | 单测纪律（每轮是否纳入全量 `go test`） | 只跑定向测试可能漏掉回归 | **B（每轮纳入）+ D（固化入口）** | ✅ **已完成**。`cgo_env.bat` 新增 `test-all`，并**强制 `GOWORK=off`**（修掉 workspace 损坏时 `go list -m` 静默失败）；本轮实跑 **ok 28 包 + FAIL 1 包（`wb-ui/webkit`，3 用例）+ 67 无测试 = 96 包**，**失败清单未增** | §6.4「环境前提」、§8.3 第 4 条 |
-| **Q7** | 判据相关两处 | ① `corrupt.png` 在 `DenyExternal` 下 L0 的**备注文案**与实际路径不符（判定行为本身正确）；② 采样伪影已累积到第 8 处 | **B（只修 ① 备注文案）** | ✅ **①已完成**：`judgeCell` 的 `broken` 分支改为**优先** `mediaDenialNote` ⇒ `DenyExternal × file/rel` 的 corrupt.png 备注从「失败路径……契约缺陷」更正为「资源策略 deny-external 拒绝该引用（预期，非缺陷）」；重跑 `-media` 后**等级全 L0 不变、与基线一致**。②**已另轮落地**（Q7-C，2026-10-07）：`mediaAnimSteps` 按样本声明的帧时长驱动连拍步长，连续 3 次全量跑 384 条等级零变化（见 §9.9「探测伪影」行） | §10 本行 + `cmd/psai/mediaprobe.go` 的 `judgeCell` / `mediaAnimSteps` |
+| **Q7** | 判据相关两处 | ① `corrupt.png` 在 `DenyExternal` 下 L0 的**备注文案**与实际路径不符（判定行为本身正确）；② 采样伪影已累积到第 8 处 | **B（只修 ① 备注文案）** | ✅ **①已完成**：`judgeCell` 的 `broken` 分支改为**优先** `mediaDenialNote` ⇒ `DenyExternal × file/rel` 的 corrupt.png 备注从「失败路径……契约缺陷」更正为「资源策略 deny-external 拒绝该引用（预期，非缺陷）」；重跑 `-media` 后**等级全 L0 不变、与基线一致**。②**已另轮落地**（Q7-C，2026-10-07）：`mediaAnimSteps` 按样本声明的帧时长驱动连拍步长，连续 3 次全量跑 384 条等级零变化（见 §9.9「探测伪影」行）；③ **它落地后暴露的截图相位抖动（另一环节）已由 Q7-D 处置**（2026-10-07，见 §9.9「截图相位」行）：渲染层取证相位锁定 + 探针截图期间钉相位 0，连续 3 次全量跑 8 张 `matrix-*.png` **逐字节相同** | §10 本行 + `cmd/psai/mediaprobe.go` 的 `judgeCell` / `mediaAnimSteps` / `engine/rendering/imageanimation.go` 的 `SetAnimatedImagePhase` |
 | **Q8** | 文档剩余范围 | 收敛到两项，本轮已按授权就地处置 | — | ✅ 原地处置（细目见下）：**丙10 已消解（2026-10-07 按实施口径修订决策 5）**、**乙4 已标注待确认** | §3.4、§0.2 |
 
 > **Q8 细目（两项的处置依据）**
